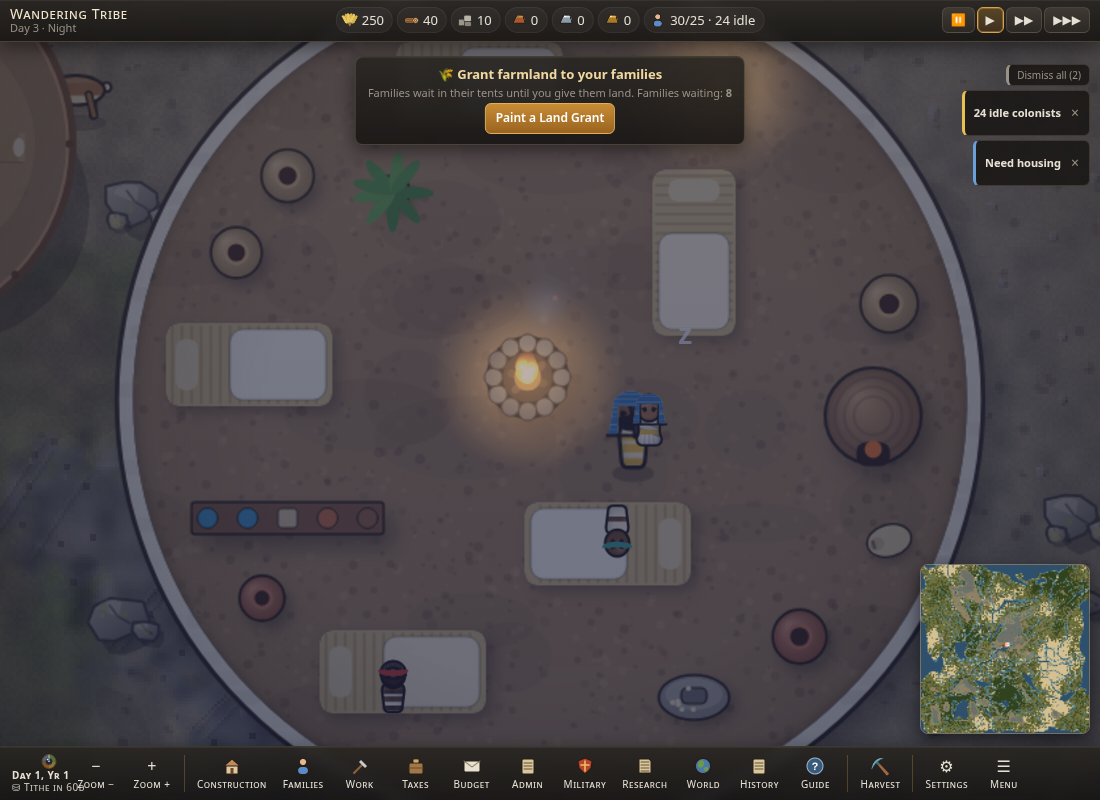
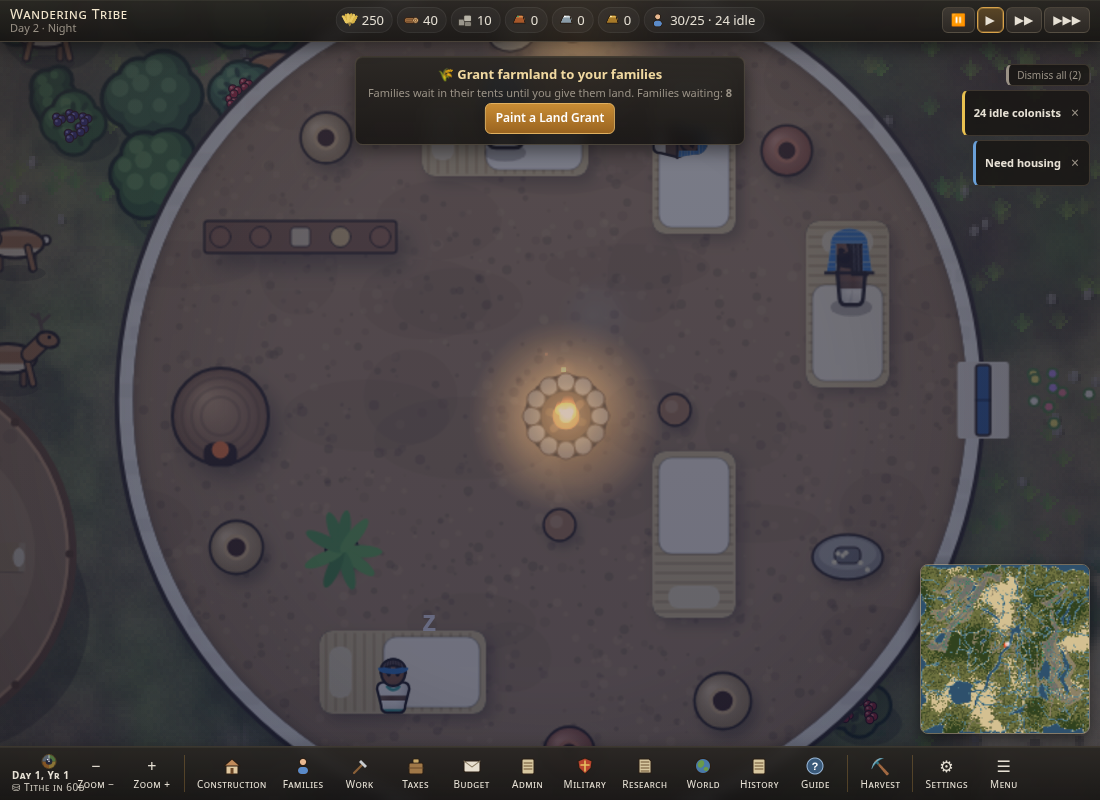
Final pass: two-layer prop bake (canopy over pawns) to z1.3, stead sleeps 14, house hearth stools, granary work courts, tents on interior spots/pathing, door fixes, shrine altar

diff --git a/index.html b/index.html
@@ -1052,7 +1052,7 @@ const SPR={};
 // ---- buildings (hi-res sprites, multi-tile) ----
 const SZFIX={shrine:3};const bsz=t=>SZFIX[t]||(BLD[t]&&BLD[t].sz)||1;
 // realistic proportions: buildings at true scale vs ~0.65-tile people (art drawn at design size then scaled)
-const NSZ={holding:8,stead:7,craft:7,tavern:8,shrine:3,senet:2,plaza:5,trainingcamp:7,spearschool:6,archery:7,slingfield:6,axehall:6,stables:7,gatherhut:6,storehouse:8,bakery:7,brewery:7,tent:4,campfire:2,stockpile:5,garden:4,farm:8,house:9,lodge:6,lumber:6,quarry:6,barracks:10,granary:8,well:2,copper:6,tin:6,smelter:7,temple:12,market:8,palace:12,statue:3};
+const NSZ={holding:8,stead:8,craft:7,tavern:8,shrine:3,senet:2,plaza:5,trainingcamp:7,spearschool:6,archery:7,slingfield:6,axehall:6,stables:7,gatherhut:6,storehouse:8,bakery:7,brewery:7,tent:4,campfire:2,stockpile:5,garden:4,farm:8,house:9,lodge:6,lumber:6,quarry:6,barracks:10,granary:8,well:2,copper:6,tin:6,smelter:7,temple:12,market:8,palace:12,statue:3};
 const BCOSTX={house:1.4,barracks:1.4,granary:1.4,temple:1.4,palace:1.3,market:1.3,smelter:1.3,lodge:1.2,lumber:1.2};
 for(const k in NSZ)if(BLD[k]){BLD[k].osz=BLD[k].sz||1;BLD[k].sz=NSZ[k];if(BCOSTX[k])for(const r in BLD[k].cost)BLD[k].cost[r]=Math.round(BLD[k].cost[r]*BCOSTX[k])}
 // ---- placement, occupancy, A*, roads ----
@@ -1703,13 +1703,13 @@ addEventListener('popstate',()=>{if(placing){pbarSync.h=0;pCancel()}});setInterv
 // ---------- frame ----------
 // perf: chunk mip levels + low-zoom baked prop layers
 function chMip(ch,w){const p=ch.ml||256,L0=w>=(p>128?165:198)?256:w>=(p>64?82:99)?128:64;ch.ml=L0;if(L0===256)return ch.c;const L=L0;ch.m=ch.m||{};if(!ch.m[L]){const src=L===64?(ch.m[128]||ch.c):ch.c;const[c,g]=mk(L,L);g.imageSmoothingEnabled=true;g.imageSmoothingQuality='high';g.drawImage(src,0,0,L,L);ch.m[L]=c}return ch.m[L]}
-const PBZ=.85,PBK={};let PBsrc=null;
-let PBV=0;let PB_ON=0;function propBake(vl,vr,vt,vb,now){if(PBsrc!==props){for(const k in PBK)delete PBK[k];PBsrc=props;PBV++}if(now-(propBake.t||0)>60000){propBake.t=now;PBV++}visProps(-1e9,-1e9,-1e9,-1e9);const W=CS*TS,M=48,sc=cam.z>.6?1:.5;let bud=(lowPrefill.mv&&performance.now()-lowPrefill.mv<350)?1:3;
+const PBZ=1.3,PBK={};let PBsrc=null;
+let PBV=0;let PB_ON=0;function propBake(vl,vr,vt,vb,now){if(PBsrc!==props){for(const k in PBK)delete PBK[k];PBsrc=props;PBV++}if(now-(propBake.t||0)>60000){propBake.t=now;PBV++}visProps(-1e9,-1e9,-1e9,-1e9);const W=CS*TS,M=48,sc=cam.z>.6?1:.5;propBake.up=[];let bud=(lowPrefill.mv&&performance.now()-lowPrefill.mv<350)?1:3;
  for(let cy=Math.max(0,Math.floor(vt/W));cy<=Math.min(MH/CS-1,Math.floor(vb/W));cy++)for(let cx=Math.max(0,Math.floor(vl/W));cx<=Math.min(MW/CS-1,Math.floor(vr/W));cx++){const k=cx+','+cy,a=PCH[k];if(!a||!a.length)continue;let e=PBK[k];
-  if((!e||e.src!==PBV||e.sc!==sc)&&(bud>0||!e)){if(!e&&bud<=0&&Object.keys(PBK).length)continue;bud--;const cw=Math.ceil((W+M*2)*sc);if(!e||e.sc!==sc){const[c,g]=mk(cw,cw);e=PBK[k]={c,g,sc}}e.t=now;e.src=PBV;const g=e.g;g.setTransform(1,0,0,1,0,0);g.clearRect(0,0,cw,cw);g.setTransform(sc,0,0,sc,(M-cx*W)*sc,(M-cy*W)*sc);
-   const ov=vx;vx=g;PB_ON=1;try{a.slice().sort((p,q)=>p.gy-q.gy).forEach(pr=>{const X=pr.gx*TS,Y=pr.gy*TS,vv=(hsh(pr.gx*7|0,pr.gy*7|0)*3)|0,sp=propSpr(pr.k,vv),big=pr.k==='oak'||pr.k==='palm'||pr.k==='olive';rnDrawProp(pr,X,Y,sp,0,big)})}finally{vx=ov;PB_ON=0}}
-  if(e){e.used=now;vx.drawImage(e.c,cx*W-M,cy*W-M,W+M*2,W+M*2)}}
- const ks=Object.keys(PBK);if(ks.length>260){ks.sort((p,q)=>(PBK[p].used||0)-(PBK[q].used||0));ks.slice(0,ks.length-200).forEach(k=>delete PBK[k])}}
+  if((!e||e.src!==PBV||e.sc!==sc)&&(bud>0||!e)){if(!e&&bud<=0&&Object.keys(PBK).length)continue;bud--;const cw=Math.ceil((W+M*2)*sc);if(!e||e.sc!==sc){const[c,g]=mk(cw,cw),[u,ug]=sc<1?[null,null]:mk(cw,cw);e=PBK[k]={c,g,u,ug,sc}}e.t=now;e.src=PBV;e.hu=0;const g=e.g,ug=e.ug;for(const q of ug?[g,ug]:[g]){q.setTransform(1,0,0,1,0,0);q.clearRect(0,0,cw,cw);q.setTransform(sc,0,0,sc,(M-cx*W)*sc,(M-cy*W)*sc)}
+   const ov=vx;vx=g;PB_ON=1;try{a.slice().sort((p,q)=>p.gy-q.gy).forEach(pr=>{const X=pr.gx*TS,Y=pr.gy*TS,vv=(hsh(pr.gx*7|0,pr.gy*7|0)*3)|0,sp=propSpr(pr.k,vv),big=pr.k==='oak'||pr.k==='palm'||pr.k==='olive';if(!big||sc<1){vx=g;rnDrawProp(pr,X,Y,sp,0,big);return}e.hu=1;for(const[q,lo]of[[g,1],[ug,0]]){q.save();q.beginPath();lo?q.rect(X-30,Y+5,60,30):q.rect(X-30,Y-30,60,35);q.clip();vx=q;rnDrawProp(pr,X,Y,sp,0,big);q.restore()}})}finally{vx=ov;PB_ON=0}}
+  if(e){e.used=now;vx.drawImage(e.c,cx*W-M,cy*W-M,W+M*2,W+M*2);if(e.hu)propBake.up.push([e.u,cx*W-M,cy*W-M,W+M*2])}}
+ const ks=Object.keys(PBK),pl=sc<1?300:130;if(ks.length>pl){ks.sort((p,q)=>(PBK[p].used||0)-(PBK[q].used||0));ks.slice(0,ks.length-pl+30).forEach(k=>delete PBK[k])}}
 let PCH={};function visProps(vl,vr,vt,vb){if(visProps.src!==props){PCH={};props.forEach(p=>{const k=((p.gx/CS)|0)+','+((p.gy/CS)|0);(PCH[k]=PCH[k]||[]).push(p)});visProps.src=props}const o=[],W=CS*TS;for(let cy=Math.max(0,Math.floor(vt/W));cy<=Math.min(MH/CS-1,Math.floor(vb/W));cy++)for(let cx=Math.max(0,Math.floor(vl/W));cx<=Math.min(MW/CS-1,Math.floor(vr/W));cx++){const a=PCH[cx+','+cy];if(a)for(const p of a)o.push(p)}return o}
 // ---- interiors: each pawn inside a building owns one use spot (occupancy 1), walks to it over the room grid (walls and furniture block), then uses it ----
 const ISP=new WeakMap();
@@ -1718,7 +1718,7 @@ function intGrid(m){if(m._wg)return m._wg;const R=m.R;if(!R)return null;const n=
 function intCell(G,x,y){const i=Math.max(0,Math.min(G.n-1,x/G.C|0)),j=Math.max(0,Math.min(G.n-1,y/G.C|0));return j*G.n+i}
 function intNear(G,c){if(G.w[c])return c;const n=G.n,q=[c],seen=new Uint8Array(n*n);seen[c]=1;while(q.length){const k=q.shift();if(G.w[k])return k;const x=k%n,y=k/n|0;for(const[a,b]of[[1,0],[-1,0],[0,1],[0,-1]]){const X=x+a,Y=y+b;if(X<0||Y<0||X>=n||Y>=n)continue;const nk=Y*n+X;if(!seen[nk]){seen[nk]=1;q.push(nk)}}}return c}
 function intPath(G,a0,b0){const n=G.n,prev=new Int32Array(n*n).fill(-1);const q=[a0];prev[a0]=a0;while(q.length){const k=q.shift();if(k===b0)break;const x=k%n,y=k/n|0;for(const[a,b]of[[1,0],[-1,0],[0,1],[0,-1],[1,1],[-1,1],[1,-1],[-1,-1]]){const X=x+a,Y=y+b;if(X<0||Y<0||X>=n||Y>=n)continue;const nk=Y*n+X;if(prev[nk]>=0||!G.w[nk])continue;if(a&&b&&(!G.w[y*n+X]||!G.w[Y*n+x]))continue;prev[nk]=k;q.push(nk)}}if(prev[b0]<0)return[b0];const P=[];for(let k=b0;k!==a0;k=prev[k])P.push(k);return P.reverse()}
-function intPos(a,dt){const b=a.inB,sp=bSpr(b);if(!sp||!sp.m||!sp.m.R)return null;const m=sp.m,G=intGrid(m);if(!G)return null;const nt=night(),want=a.state==='home'&&nt?'bed':'seat';
+function intPos(a,dt){const b=a.inB,sp=b.t==='tent'?tentIntSpr(b):bSpr(b);if(!sp||!sp.m||!sp.m.R)return null;const m=sp.m,G=intGrid(m);if(!G)return null;const nt=night(),want=a.state==='home'&&nt?'bed':'seat';
  let occ=ISP.get(b);if(!occ){occ=new Map();ISP.set(b,occ)}const here=ax().inB.get(b)||[];for(const k of occ.keys())if(!here.some(q=>q.key===k))occ.delete(k);
  let o=occ.get(a.key);if(!o||o.k!==want){const taken=new Set([...occ.values()].filter(v=>v!==o).map(v=>v.i));const L=(m.spots||[]).map((q,i)=>({q,i})).filter(z=>z.q.k===want&&!taken.has(z.i));const z=L[0]||(m.spots||[]).map((q,i)=>({q,i})).find(z=>!taken.has(z.i));o=z?{k:want,i:z.i}:{k:want,i:-1};occ.set(a.key,o)}
  let tgt=o.i>=0?m.spots[o.i]:null;if(!tgt){if(!o.free){const fr=[];for(let k=0;k<G.w.length;k++)if(G.w[k])fr.push(k);const used=new Set([...occ.values()].map(v=>v.free).filter(Boolean));let c=fr[(hsh((a.idx||0)*7,(a.key||'').length,31)*fr.length)|0];for(let t=0;t<20&&used.has(c);t++)c=fr[(hsh((a.idx||0)*7,t,32)*fr.length)|0];o.free=c}tgt={x:(o.free%G.n+.5)*G.C,y:((o.free/G.n|0)+.5)*G.C}}if(a._ib!==b||a._ixy==null){a._ib=b;const d=fpDoor(b);const dx=d?(d.x-b.x)*32:G.n*G.C/2,dy=d?(d.y-b.y)*32:G.n*G.C-6;a._ixy=[dx,dy];a._ipath=null;a._it=null}
@@ -1792,7 +1792,7 @@ function vframe(now){const rdt=Math.min(.1,(now-(last||now))/1000),dt=rdt*spd;la
  blist.forEach(o=>{const b=o.b;let v=b.o||'';if(b.t==='farm'&&evOn('drought'))v='dry';const fe=S.ev.act.find(e=>e.id==='fire'&&e.bi===o.i);if(fe)v='burn';const s=o.s,X=o.gx*TS,Y=o.gy*TS;if(X>vr||X+s*TS<vl||Y>vb||Y+s*TS<vt)return;const sp=b.t==='wall'?wallSpr(b.x,b.y):bfp(b)?fpSpr(b,v):bspr(b.t,b.l,v);
   const e={o,sp,p:{x:X,y:Y},fire:!!fe,f:b.cp?()=>siteDraw(b,sp,X,Y,s,now):b.t==='farm'&&v!=='burn'?()=>farmDraw(b,X,Y,s,v,now,z):()=>{vx.drawImage(sp.c,X-8,Y-8,s*TS+16,s*TS+16);if(sp.m.walled||STORES[b.t])bldOver(b,o.i,X,Y,s,z,dt)},k:(o.gy+s)*TS-2};if(sp.m.flat){flats.push(e)}else D.push(e)});
  ecoDrawFields(vl,vr,vt,vb,z);FPB.on=0;flats.forEach(e=>e.f());if(z>=.45&&S.stk)blist.forEach(o=>{const b=o.b;if(S.stk[bid(b)])stkDraw(b,o.gx*TS,o.gy*TS,o.s)});
- if(GFX.q!=='high'&&z<(GFX.q==='low'?1.2:PBZ)){propBake(vl,vr,vt,vb,now)}else visProps(vl,vr,vt,vb).forEach(pr=>{const X=pr.gx*TS,Y=pr.gy*TS;if(!inV(X,Y))return;const vv=(hsh(pr.gx*7|0,pr.gy*7|0)*3)|0,sp=propSpr(pr.k,vv),big=pr.k==='oak'||pr.k==='palm'||pr.k==='olive';const sw=big?Math.sin(wt*1.3+pr.gx)*.6:0;D.push({k:Y+(big?10:2),f:()=>rnDrawProp(pr,X,Y,sp,sw,big)})});
+ if(z<(GFX.q==='high'?.85:GFX.q==='low'?1.6:PBZ)){propBake(vl,vr,vt,vb,now);propBake.on=1}else visProps(vl,vr,vt,vb).forEach(pr=>{const X=pr.gx*TS,Y=pr.gy*TS;if(!inV(X,Y))return;const vv=(hsh(pr.gx*7|0,pr.gy*7|0)*3)|0,sp=propSpr(pr.k,vv),big=pr.k==='oak'||pr.k==='palm'||pr.k==='olive';const sw=big?Math.sin(wt*1.3+pr.gx)*.6:0;D.push({k:Y+(big?10:2),f:()=>rnDrawProp(pr,X,Y,sp,sw,big)})});
  critters.forEach(c=>{c.t-=dt;if(c.t<=0){const rg=c.k==='deer'?2.5:1.4;c.tx=c.hx+(Math.random()-.5)*rg*2;c.ty=c.hy+(Math.random()-.5)*rg;if(!walkC(c.tx|0,c.ty|0)&&c.k!=='deer'){c.tx=c.x;c.ty=c.y}c.t=1+Math.random()*3}
   const dx=c.tx-c.x,dy=c.ty-c.y,d=Math.hypot(dx,dy);if(d>.03){c.x+=dx/d*.4*dt;c.y+=dy/d*.4*dt;c.dir=dx>0?1:-1}if(z<.5||!inV(c.x*TS,c.y*TS))return;D.push({k:c.y*TS,f:()=>critDraw(c,now)})});
  if(!S.rn||!S.herds)rnInit();rnBuild();rnHerdStep(dt);if(z>=.5)rnHerdDraw(D,dt,now,inV);
@@ -1803,7 +1803,7 @@ function vframe(now){const rdt=Math.min(.1,(now-(last||now))/1000),dt=rdt*spd;la
  vis.migr=vis.migr.filter(m=>{if(!m.route.length)return false;const p=m.route[0],dx=p.x-m.x,dy=p.y-m.y,d=Math.hypot(dx,dy),sp=.9*dt;m.dir=dirOf(dx,dy);m.ft+=dt*7;if(d<=sp){m.x=p.x;m.y=p.y;m.route.shift()}else{m.x+=dx/d*sp;m.y+=dy/d*sp}const P=isoP(m.x,m.y);if(z>=.5)D.push({k:P.y,f:()=>drawAgent(m,P,true,now)});return m.route.length>0});
  if(vis.raid&&z>=.5){const c=S.center,R=RAD[S.tier];for(let k=0;k<Math.min(10,vis.raid);k++){const p=isoP(c.x-R-1+(k%2)*.7,c.y-2+k*.6);const a={o:OUTFIT.raider,dir:0,ft:now/140+k,role:'soldier',idx:k};D.push({k:p.y,f:()=>drawAgent(a,p,true,now)})}}
  if(vis.caravan&&z>=.5){const h=hubT();for(let k=0;k<3;k++){const c={k:'goat',x:h.x+1+k*.8,y:h.y+.4,dir:1};D.push({k:c.y*TS,f:()=>{critDraw(c,now);rr(vx,c.x*TS-5,c.y*TS-6,10,5,1,k%2?PB.red[3]:PB.glaze[3],OUTL,.6)}})}const mp=isoP(h.x+.4,h.y-.4);D.push({k:mp.y,f:()=>drawAgent({o:OUTFIT.merchant,dir:1,ft:0,idx:0},mp,false,now)})}
- ecoVis(D,dt,z,inV,now);if(BV)bvPush(D,now,inV);D.sort((a,b)=>a.k-b.k);for(const d of D)d.f();if(BV)bvOver(now,inV);
+ ecoVis(D,dt,z,inV,now);if(BV)bvPush(D,now,inV);D.sort((a,b)=>a.k-b.k);for(const d of D)d.f();if(propBake.up&&propBake.on){for(const[c,x,y,w]of propBake.up)vx.drawImage(c,x,y,w,w)}propBake.on=0;if(BV)bvOver(now,inV);
  if(S.beau&&BEAU){const gx0=Math.max(0,vl/TS|0),gx1=Math.min(MW-1,vr/TS|0),gy0=Math.max(0,vt/TS|0),gy1=Math.min(MH-1,vb/TS|0);for(let gy=gy0;gy<=gy1;gy++)for(let gx=gx0;gx<=gx1;gx++){const v=BEAU[gy*MW+gx];if(Math.abs(v)<.4)continue;const L=Math.max(-1,Math.min(1,v/12));vx.fillStyle=L>0?'hsla('+(70+L*80|0)+',85%,'+(55-L*10)+'%,'+(.12+L*.33)+')':'hsla(10,85%,45%,'+(.18-L*.35)+')';vx.fillRect(gx*TS,gy*TS,TS,TS)}}
  if(S.heat){const gx0=Math.max(0,vl/TS|0),gx1=Math.min(MW-1,vr/TS|0),gy0=Math.max(0,vt/TS|0),gy1=Math.min(MH-1,vb/TS|0);for(let gy=gy0;gy<=gy1;gy++)for(let gx=gx0;gx<=gx1;gx++){const i=gy*MW+gx;if(!roadSet[i])continue;const L=Math.min(1,LOAD[i]/1.4);vx.fillStyle='hsla('+((1-L)*120|0)+',85%,50%,.5)';vx.fillRect(gx*TS+1,gy*TS+1,TS-2,TS-2)}}
  fbOver(vl,vr,vt,vb,now,z);
@@ -2884,8 +2884,8 @@ const FP={
   {n:'U-house around a court',p:[['r',.03,.03,.94,.36],['r',.03,.03,.3,.94],['r',.67,.03,.3,.94],['r',.33,.39,.34,.58,'court']],door:[.5,.97],k:'house'},
   {n:'Family compound',p:[['r',.03,.1,.5,.44],['r',.47,.03,.5,.4],['r',.08,.5,.4,.47],['r',.47,.43,.48,.52,'court']],door:[.72,.95],k:'house'},
   {n:'Round house',p:[['c',.5,.5,.47]],door:[.5,.97],k:'house'},{n:'Square house',legacy:1}],
- granary:[{n:'Beehive silos',p:[['c',.27,.27,.25,'dome'],['c',.73,.27,.25,'dome'],['c',.27,.73,.25,'dome'],['c',.73,.73,.25,'dome']],door:[.5,.99],k:'silo'},
-  {n:'Great dome',p:[['c',.5,.5,.47,'dome']],door:[.5,.97],k:'silo'},{n:'Silo row and yard',p:[['c',.18,.24,.17,'dome'],['c',.5,.24,.17,'dome'],['c',.82,.24,.17,'dome'],['r',.04,.44,.92,.53,'court']],door:[.5,.97],k:'silo'}],
+ granary:[{n:'Beehive silos and tally court',p:[['c',.24,.24,.21,'dome'],['c',.7,.24,.21,'dome'],['c',.24,.7,.21,'dome'],['r',.47,.5,.5,.47,'court']],door:[.72,.97],k:'silo'},
+  {n:'Great dome and porch',p:[['c',.5,.4,.37,'dome'],['r',.14,.74,.72,.23,'court']],door:[.5,.97],k:'silo'},{n:'Silo row and yard',p:[['c',.18,.24,.17,'dome'],['c',.5,.24,.17,'dome'],['c',.82,.24,.17,'dome'],['r',.04,.44,.92,.53,'court']],door:[.5,.97],k:'silo'}],
  farm:[{n:'Wheat field',legacy:1}],
  gatherhut:[{n:'L-shaped gatherers\' shed',p:[['r',.04,.04,.62,.48],['r',.04,.04,.36,.92],['r',.4,.52,.56,.44,'court']],door:[.55,.52],k:'gather'},{n:'Round hut with drying yard',p:[['c',.36,.36,.32],['r',.5,.5,.46,.46,'court']],door:[.6,.6],k:'gather'},{n:'Long shed and side yard',p:[['r',.04,.06,.92,.4],['r',.04,.46,.5,.5,'court']],door:[.3,.46],k:'gather'}],
  bakery:[{n:'Bakehouse with dome oven',p:[['r',.04,.18,.6,.56],['c',.79,.46,.19,'dome'],['r',.04,.74,.62,.22,'court']],door:[.34,.74],k:'bakehouse'},{n:'Twin-oven bakehouse',p:[['r',.2,.04,.6,.5],['c',.17,.75,.15,'dome'],['c',.83,.75,.15,'dome'],['r',.36,.56,.28,.4,'court']],door:[.5,.54],k:'bakehouse'},{n:'L bakehouse',p:[['r',.04,.04,.92,.4],['r',.04,.04,.4,.92],['c',.73,.72,.2,'dome']],door:[.44,.7],k:'bakehouse'}],
@@ -2903,7 +2903,7 @@ const FP={
  copper:[{n:'Miners\' hut and ore yard',p:[['r',.04,.04,.42,.34],['e',.6,.6,.36,.36,'court']],door:[.3,.38],k:'minehut'},{n:'Long miners\' hut',p:[['r',.04,.04,.92,.28],['e',.5,.68,.42,.28,'court']],door:[.5,.32],k:'minehut'}],
  tin:[{n:'Round miners\' hut and ore yard',p:[['c',.27,.27,.23],['e',.62,.64,.34,.32,'court']],door:[.4,.45],k:'minehut2'},{n:'Miners\' hut and side yard',p:[['r',.04,.04,.4,.5],['e',.68,.6,.28,.36,'court']],door:[.44,.4],k:'minehut2'}],
  holding:[{n:'Treasury compound round a court',p:[['r',.03,.03,.94,.3],['r',.03,.33,.3,.64],['c',.8,.78,.17,'dome'],['r',.33,.33,.64,.64,'court']],door:[.6,.33],k:'holding'},{n:'L treasury and store domes',p:[['r',.03,.03,.94,.36],['r',.03,.03,.36,.94],['c',.62,.66,.14,'dome'],['c',.86,.86,.11,'dome'],['r',.39,.39,.58,.2,'court']],door:[.6,.39],k:'holding'}],
- stead:[{n:'Farmstead with sleeping hut, byre and grain dome',p:[['r',.03,.03,.62,.5],['c',.83,.2,.15,'dome'],['c',.82,.62,.16],['r',.03,.53,.3,.44],['r',.33,.53,.4,.44,'court']],door:[.5,.53],k:'stead'},{n:'Long farmhouse, byre and sleeping hut',p:[['r',.03,.03,.94,.4],['r',.03,.43,.3,.3],['r',.64,.45,.33,.52],['c',.18,.86,.11,'dome'],['r',.33,.43,.31,.54,'court']],door:[.5,.43],k:'stead'}],
+ stead:[{n:'Farmstead with sleeping hut, byre and grain dome',p:[['r',.03,.03,.62,.5],['c',.83,.2,.15,'dome'],['c',.82,.62,.16],['r',.03,.53,.44,.44],['r',.47,.53,.26,.44,'court']],door:[.6,.53],k:'stead'},{n:'Long farmhouse, byre and sleeping hut',p:[['r',.03,.03,.94,.4],['r',.03,.43,.3,.3],['r',.64,.45,.33,.52],['c',.18,.86,.11,'dome'],['r',.33,.43,.31,.54,'court']],door:[.5,.43],k:'stead'}],
  craft:[{n:'Town house with workshop',p:[['r',.04,.04,.55,.45],['r',.59,.04,.37,.62],['r',.04,.49,.55,.47,'court']],door:[.3,.49],k:'workshop'},{n:'Workshop across the yard',p:[['r',.04,.04,.92,.38],['r',.04,.62,.5,.34],['r',.04,.42,.92,.2,'court']],door:[.5,.42],k:'workshop'}],
  statue:[{n:'Round plinth',p:[['c',.5,.5,.42]],k:'plinth'},{n:'Square plinth',p:[['r',.15,.15,.7,.7]],k:'plinth'}],
  barracks:[{n:'Long barracks',p:[['r',.02,.3,.96,.4]],door:[.5,.7],k:'barracks'},{n:'Barracks block',p:[['r',.28,.02,.44,.96]],door:[.72,.5],k:'barracks'},
@@ -2954,7 +2954,7 @@ function fpSpr(b,v){const f=bfp(b),t=b.t,l=Math.min(b.l||1,5);const key='F'+t+l+
  if(V.door){const d0=fpT(V.door[0],V.door[1],f);let best=null,bd=1e9;const inside=(x,y,ex)=>solid.some(o=>o!==ex&&(o.k==='r'?x>o.x+.01&&x<o.x+o.w-.01&&y>o.y+.01&&y<o.y+o.h-.01:((x-o.x)/o.rx)**2+((y-o.y)/o.ry)**2<.97));
   for(const o of solid){if(o.tag==='dome')continue;let cands=[];if(o.k==='r'){const cx=Math.max(o.x+.06,Math.min(o.x+o.w-.06,d0[0])),cy=Math.max(o.y+.06,Math.min(o.y+o.h-.06,d0[1]));cands=[[cx,o.y,1],[cx,o.y+o.h,1],[o.x,cy,0],[o.x+o.w,cy,0]]}else{const a=Math.atan2(d0[1]-o.y,d0[0]-o.x);cands=[[o.x+Math.cos(a)*o.rx,o.y+Math.sin(a)*o.ry,Math.abs(Math.sin(a))>.7?1:0]]}
    for(const[cx,cy,h]of cands){const nx=cx+(h?0:(cx>o.x+(o.w||0)/2?.02:-.02)),ny=cy+(h?(cy>o.y+(o.h||0)/2?.02:-.02):0);if(inside(nx,ny,o))continue;const dd=(cx-d0[0])**2+(cy-d0[1])**2;if(dd<bd){bd=dd;best=[cx,cy,h]}}}
-  const d=best?[best[0],best[1]]:d0,dx=d[0]*W,dy=d[1]*W;const hor=best?!!best[2]:Math.abs(d[1]-.5)>Math.abs(d[0]-.5);g.save();g.translate(dx,dy);if(!hor)g.rotate(Math.PI/2);rr(g,-12,-th*.8,24,th*1.6,1,lighten(wc[0],.15));rr(g,-11,-2.2,22,4.4,1,A.wall.door||'#6a4626',OUTL,.8);ln(g,0,-2.2,0,2.2,'rgba(0,0,0,.4)',.8);g.restore()}
+  const d=best?[best[0],best[1]]:d0,dx=d[0]*W,dy=d[1]*W;const hor=best?!!best[2]:Math.abs(d[1]-.5)>Math.abs(d[0]-.5);if(best){const ds=Math.max(.5,Math.min(1,W/220));g.save();g.translate(dx,dy);if(!hor)g.rotate(Math.PI/2);g.scale(ds,1);rr(g,-12,-th*.8,24,th*1.6,1,lighten(wc[0],.15));rr(g,-11,-2.2,22,4.4,1,A.wall.door||'#6a4626',OUTL,.8);ln(g,0,-2.2,0,2.2,'rgba(0,0,0,.4)',.8);g.restore()}}
  // interior furnishing (v3: concept-sheet props, greedy wall-aware placement)
  const kd=V.k;{if(!['lumber','fold','field'].includes(kd)){const inner=new Path2D(),domeP=new Path2D(),outer=new Path2D(),cp=new Path2D();solid.filter(p=>p.tag!=='dome').forEach(p=>inner.addPath(ipath(p,th+3)));P.filter(p=>p.tag==='dome').forEach(p=>domeP.addPath(path(p,0)));solid.forEach(p=>outer.addPath(path(p,0)));open.forEach(p=>cp.addPath(path(p,5)));
   const RS=4,rn=Math.ceil(W/RS),[rc,rg]=mk(rn,rn);rg.scale(1/RS,1/RS);rg.fillStyle='#00ff00';rg.fill(cp);rg.globalCompositeOperation='destination-out';rg.fill(outer);rg.globalCompositeOperation='source-over';rg.fillStyle='#ff0000';rg.fill(inner);rg.globalCompositeOperation='destination-out';rg.fill(domeP);
@@ -3123,15 +3123,15 @@ function X_furnish(g,kd,W,test,door,m,l,seed,extra){const id=civId(),PL=X_PAL[id
  if(kd==='house'||kd==='tent'){X_RICH=rich;
   if(kd==='tent'){hearthC(1,10);for(let i=0;i<3*Math.max(1,l);i++)P(1,26,52,'wall',b=>bedF(b,X_pick(PL.lin),0));sacks(1,2);jars(1,2);P(1,36,24,'any',b=>X_rug(g,b.x,b.y,b.w,b.h,'#8a6038','#c8a868','#5a3a1c'));return}
   if(rich&&A1>14)P(1,96,64,'center',b=>X_rug(g,b.x,b.y,b.w,b.h,PL.rug[0],PL.rug[1],PL.rug[2]),{gap:-40,rot:false,jit:2});
-  if(id==='myc'&&A1>16){const b=hearthC(1,20);if(b){for(const[a,c]of[[-1,-1],[1,-1],[-1,1],[1,1]])X_column(g,b.cx+a*34,b.cy+c*34,7,'#8a5a32');X_mark(R,b.cx-44,b.cy-44,88,88,0)}}
-  else if(id!=='egypt'||!A2)hearthC(1,13);
+  let HB=null;if(id==='myc'&&A1>16){const b=HB=hearthC(1,20);if(b){for(const[a,c]of[[-1,-1],[1,-1],[-1,1],[1,1]])X_column(g,b.cx+a*34,b.cy+c*34,7,'#8a5a32');X_mark(R,b.cx-44,b.cy-44,88,88,0)}}
+  else if(id!=='egypt'||!A2)HB=hearthC(1,13);{const sc2=HB?1:A2?2:1;for(let i=0;i<Math.min(4,Math.max(2,l+1));i++)P(sc2,14,14,HB?'near':'wall',b=>X_stool(g,b.cx,b.cy),HB?{p:[HB.cx,HB.cy],gap:3}:{gap:3})}
   const res=5*Math.max(1,l),nb=Math.min(res,Math.max(2,Math.floor(A1/3.2)));for(let i=0;i<nb;i++)P(1,rich?30:26,rich?60:52,i<Math.ceil(nb/2)?'wall':'any',b=>{bedF(b,PL.lin[i%PL.lin.length],rich);if(rich)P(1,36,22,'near',q=>X_chest(g,q.x,q.y,q.w,q.h,1),{p:[b.cx,b.cy],gap:3})});
   if(l>=2)P(1,70,26,'wall',b=>X_loom(g,b.cx,b.cy,b.sw?b.h:b.w,b.sw?Math.PI/2:0));
   if(!A2){P(1,34,34,'wall',b=>X_oven(g,b.cx,b.cy,15));P(1,26,18,'wall',b=>X_quern(g,b.cx,b.cy))}jars(1,2);
   if(l>=2)P(1,44,30,'center',b=>{X_table(g,b.x+2,b.y+4,b.w-4,b.h-8);X_stool(g,b.x-4,b.cy);X_stool(g,b.x+b.w+4,b.cy)},{gap:10});
   P(1,60,12,'wall',b=>b.sw?(g.save(),g.translate(b.cx,b.cy),g.rotate(Math.PI/2),X_shelf(g,-30,-5,60,5),g.restore()):X_shelf(g,b.x,b.y,60,5),{gap:2});
   jars(1,2+l);sacks(1,1+(l>>1));lamps(1,1+(rich?1:0));if(rich)P(1,36,22,'wall',b=>X_chest(g,b.x,b.y,b.w,b.h,1));P(1,30,30,'wall',b=>X_extra(g,id,b.cx,b.cy,m));court();X_RICH=0;return}
- if(kd==='silo'){if(A2){P(2,60,40,'far',b=>{X_mat(g,b.x,b.y,b.w,b.h);X_tablets(g,b.x+6,b.y+6,6);X_stool(g,b.cx,b.y+b.h+6)},{rot:false});P(2,60,40,'center',b=>{X_ell(g,b.cx,b.cy,26,16,'#d8bc70');for(let i=0;i<30;i++)X_circ(g,b.cx+X_R(-22,22),b.cy+X_R(-12,12),.8,'#a08040')},{rot:false});
+ if(kd==='silo'){for(let i=0;i<2;i++)P(A2?2:1,14,14,A2?'wall':'any',b=>X_stool(g,b.cx,b.cy),{gap:4});if(A2){P(2,60,40,'far',b=>{X_mat(g,b.x,b.y,b.w,b.h);X_tablets(g,b.x+6,b.y+6,6);X_stool(g,b.cx,b.y+b.h+6)},{rot:false});P(2,60,40,'center',b=>{X_ell(g,b.cx,b.cy,26,16,'#d8bc70');for(let i=0;i<30;i++)X_circ(g,b.cx+X_R(-22,22),b.cy+X_R(-12,12),.8,'#a08040')},{rot:false});
    P(2,60,24,'any',b=>X_donkey(g,b.cx,b.cy,1),{rot:false});jars(2,6);sacks(2,10);trough(2)}return}
  if(kd==='barracks'){X_RICH=0;const n=8;for(let i=0;i<n;i++)P(1,22,42,i<5?'wall':'any',b=>{X_pallet(g,b.cx,b.cy,X_pick(['#8e3a2a','#6a5a3a','#5a6a4a']),b.rot);P(1,24,14,'near',q=>X_chest(g,q.x,q.y,q.w,q.h),{p:[b.cx,b.cy],gap:2})},{gap:4});
   for(let i=0;i<2;i++)P(1,50,14,'wall',b=>X_weaponrack(g,b.cx,b.cy,50,b.sw?Math.PI/2:0));P(1,110,26,'center',b=>{X_table(g,b.x,b.y,b.w,b.h,'#8a5e34');for(let i=0;i<4;i++)X_circ(g,b.x+16+i*24,b.cy,4,'#e8c86a');const v=b.sw;for(let i=0;i<5;i++)v?X_stool(g,b.x-7,b.y+10+i*20):X_stool(g,b.x+10+i*20,b.y+b.h+7)},{gap:12});
@@ -3173,14 +3173,14 @@ function X_furnish(g,kd,W,test,door,m,l,seed,extra){const id=civId(),PL=X_PAL[id
  if(kd==='brew'){pith(1,5);bench(1,44,2);sacks(1,3);jars(1,3);if(A2){hearthC(2,11);P(2,30,30,'wall',b=>X_oven(g,b.cx,b.cy,13));jars(2,3)}return}
  if(kd==='store'){shelfW(1,3,6);pith(1,4);sacks(1,8);jars(1,6);P(1,40,24,'far',b=>{X_desk(g,b.cx,b.cy,m);X_tablets(g,b.cx+12,b.cy-8,3)},{gap:6});return}
  if(kd==='tavern'){hearthC(1,12);for(let i=0;i<2;i++)bench(1,44,4);shelfW(1,1,6);pith(1,2);jars(1,3);if(A2){bench(2,40,4);P(2,22,22,'wall',b=>X_plant(g,b.cx,b.cy,9))}return}
- if(kd==='shrine'){if(!P(1,30,20,'center',b=>X_altar(g,b.x,b.y,b.w,b.h,m),{gap:8,rot:false}))P(1,18,12,'center',b=>X_altar(g,b.x,b.y,b.w,b.h,m),{gap:2,rot:false});lamps(1,2);P(1,14,14,'wall',b=>X_offering(g,b.cx,b.cy));if(A2){P(2,18,18,'center',b=>X_brazier(g,b.cx,b.cy,m),{gap:6})}return}
+ if(kd==='shrine'){if(!P(1,30,20,'center',b=>X_altar(g,b.x,b.y,b.w,b.h,m),{gap:8,rot:false})&&!P(1,18,12,'center',b=>X_altar(g,b.x,b.y,b.w,b.h,m),{gap:2,rot:false})){let sx=0,sy=0,c=0;for(let k=0;k<R.cls.length;k++)if(R.cls[k]===1){sx+=k%R.n;sy+=k/R.n|0;c++}if(c){const x=(sx/c+.5)*R.C,y=(sy/c)*R.C;X_altar(g,x-10,y-10,20,13,m);X_mark(R,x-14,y-14,28,20,1)}}lamps(1,2);P(1,14,14,'wall',b=>X_offering(g,b.cx,b.cy));if(A2){P(2,18,18,'center',b=>X_brazier(g,b.cx,b.cy,m),{gap:6})}return}
  if(kd==='drill'||kd==='spear'||kd==='axe'){rackW(1,kd==='spear'?3:2);for(let i=0;i<3;i++)P(1,16,16,'wall',b=>X_shield(g,b.cx,b.cy,'#8a4a2a'),{gap:2});P(1,40,22,'wall',b=>X_chest(g,b.x,b.y,b.w,b.h,0),{gap:4});if(kd==='axe')P(1,26,22,'center',b=>X_anvil(g,b.cx,b.cy));if(A2){for(let i=0;i<3;i++)P(2,12,12,'center',b=>{X_circ(g,b.cx,b.cy,4,'#6a4a2a',X_OL,.8);X_ln(g,b.cx,b.cy-10,b.cx,b.cy,'#7a5232',2)},{gap:26})}return}
  if(kd==='archery'){rackW(1,2);sacks(1,2);jars(1,2);P(1,40,22,'wall',b=>X_chest(g,b.x,b.y,b.w,b.h,0));if(A2)target(2,3);return}
  if(kd==='sling'){pile(1,2,'#a8a294');rackW(1,1);if(A2){target(2,3);pile(2,2,'#a8a294');for(let i=0;i<2;i++)P(2,14,14,'any',b=>{X_mat(g,b.x,b.y,b.w,b.h);X_stool(g,b.cx,b.cy)},{gap:6})}return}
  if(kd==='stable2'){for(let i=0;i<2;i++)trough(1);for(let i=0;i<3;i++)P(1,56,30,'wall',b=>X_horse(g,b.cx,b.cy,i%2?1:-1,['#6a4226','#3a2a1a','#a87a4a'][i]),{gap:4,rot:false});sacks(1,3);rackW(1,1);if(A2){P(2,56,30,'any',b=>X_horse(g,b.cx,b.cy,1,'#8a5a32'),{rot:false});trough(2)}return}
  if(kd==='quarryhut'||kd==='minehut'||kd==='minehut2'){rackW(1,1);if(!bench(1,30,2)&&A2)bench(2,30,2);sacks(1,2);if(kd!=='quarryhut')P(1,30,16,'wall',b=>X_ingots(g,b.cx,b.cy,4));if(A2){const col=kd==='quarryhut'?'#c8c0b0':kd==='minehut'?'#5a8a6a':'#8a9aa8';pile(2,4,col)}return}
  if(kd==='holding'){P(1,40,24,'far',b=>{X_desk(g,b.cx,b.cy,m);X_tablets(g,b.cx+12,b.cy-8,4);X_stool(g,b.cx,b.cy+16)},{gap:8});for(let i=0;i<4;i++)P(1,40,22,'wall',b=>X_chest(g,b.x,b.y,b.w,b.h,1),{gap:3});pith(1,6);sacks(1,6);shelfW(1,2,6);lamps(1,2);if(A2){trough(2);P(2,60,24,'any',b=>X_donkey(g,b.cx,b.cy,1),{rot:false});sacks(2,4)}return}
- if(kd==='stead'){hearthC(1,12);for(let i=0;i<2;i++)P(1,26,52,'wall',b=>X_bed(g,b.cx,b.cy,X_pick(PL.lin),b.rot,0));for(let i=0;i<8;i++)P(1,18,30,i<4?'wall':'any',b=>X_pallet(g,b.cx,b.cy,X_pick(PL.lin),b.rot));P(1,26,18,'wall',b=>X_quern(g,b.cx,b.cy));jars(1,3);court();return}
+ if(kd==='stead'){hearthC(1,12);for(let i=0;i<2;i++)P(1,26,52,'wall',b=>X_bed(g,b.cx,b.cy,X_pick(PL.lin),b.rot,0));for(let i=0;i<12;i++)P(1,18,30,i<6?'wall':'any',b=>X_pallet(g,b.cx,b.cy,X_pick(PL.lin),b.rot));P(1,26,18,'wall',b=>X_quern(g,b.cx,b.cy));jars(1,3);court();return}
  if(kd==='workshop'){hearthC(1,10);for(let i=0;i<5;i++)P(1,20,34,'wall',b=>X_pallet(g,b.cx,b.cy,X_pick(PL.lin),b.rot));bench(1,44,2);shelfW(1,2,5);P(1,26,22,'wall',b=>X_anvil(g,b.cx,b.cy));jars(1,3);court();return}
  if(kd==='plinth'){P(1,30,30,'center',b=>X_statue(g,b.cx,b.cy,'#c8903a'),{gap:0,rot:false});return}
  if(kd==='lodge'){hearthC(1,11);P(1,50,26,'any',b=>{X_table(g,b.x+3,b.y+3,b.w-6,b.h-6,'#8a5a32');X_stool(g,b.x-3,b.cy);X_stool(g,b.x+b.w+3,b.cy)},{gap:8});for(let i=0;i<2;i++)P(1,40,28,'wall',b=>{X_rug(g,b.x,b.y,b.w,b.h,'#8a6038','#c8a868','#5a3a1c')});P(1,50,14,'wall',b=>X_weaponrack(g,b.cx,b.cy,50,b.sw?Math.PI/2:0));sacks(1,2);jars(1,2);return}
@@ -3757,14 +3757,12 @@ function tentIntSpr(b){const F=tentFurn(b),k=b.x+','+b.y+'|'+F.key;if(TINT[k])re
   else if(t==='net'){g.strokeStyle='rgba(220,210,180,.8)';g.lineWidth=.5;for(let k=-3;k<=3;k+=1.5){L(k,-3,k,3,'rgba(220,210,180,.8)',.5);L(-3,k,3,k,'rgba(220,210,180,.8)',.5)}}else if(t==='hammer'){L(0,-5,0,6,'#8a6038',1.4);g.fillStyle='#7a7a72';g.fillRect(-2.5,-6.5,5,2.6)}else if(t==='spear'){L(0,-8,0,8,'#8a6038',1.1);g.fillStyle='#c8a050';g.beginPath();g.moveTo(0,-11);g.lineTo(1.5,-7.5);g.lineTo(-1.5,-7.5);g.fill()}else{L(0,-6,0,6,'#8a6038',1.2)}g.restore()});
  g.restore();g.strokeStyle='#6a4626';g.lineWidth=2.4;g.beginPath();g.arc(cx,cy,r,.0,6.29);g.stroke();g.strokeStyle='#c89a6a';g.lineWidth=1;g.beginPath();g.arc(cx,cy,r-1.6,0,6.29);g.stroke();
  for(let i=0;i<8;i++){const a=i/8*6.28;g.fillStyle='#5a3a1a';g.beginPath();g.arc(cx+Math.cos(a)*(r-1),cy+Math.sin(a)*(r-1),1.3,0,6.3);g.fill()}
- g.fillStyle='#9a7a54';g.fillRect(cx-4,cy+r-3,8,5);return TINT[k]=c}
+ g.fillStyle='#9a7a54';g.fillRect(cx-4,cy+r-3,8,5);{const C=4,n=Math.ceil(s*TS/C),w=new Uint8Array(n*n),sp=[];for(let j=0;j<n;j++)for(let i=0;i<n;i++){const x=(i+.5)*C,y=(j+.5)*C;w[j*n+i]=Math.hypot(x-cx,y-cy)<r*.86&&Math.hypot(x-hx,y-hy)>7?1:0}
+  for(let j=0;j<n;j++)for(let i=0;i<n;i++){const x=(i+.5)*C,y=(j+.5)*C;if(Math.hypot(x-cx,y-cy)>=r*.86&&Math.hypot(x-cx,y-(cy+r-3))<7)w[j*n+i]=1}
+  pos.forEach(([x,y,a])=>sp.push({k:'bed',x,y,r:a}));for(let i=0;i<F.beds;i++){const a=i/F.beds*6.28+.9;sp.push({k:'seat',x:hx+Math.cos(a)*11,y:hy+Math.sin(a)*9})}c.m={R:1,spots:sp,_wg:{n,C,w}}}return TINT[k]=c}
 // cut-away when zoomed in close or when the tent is selected
 function tentCut(vl,vr,vt,vb,now,z){const selB=sel&&sel.i!=null?S.bl[sel.i]:null;for(const b of S.bl){if(b.t!=='tent')continue;if(!(z>=2.2||b===selB))continue;const s=bsz('tent'),X=b.x*TS,Y=b.y*TS,W=s*TS;if(X>vr||X+W<vl||Y>vb||Y+W<vt)continue;
- vx.drawImage(tentIntSpr(b),X,Y,W,W);const ins=(ax().inB.get(b)||[]).slice().sort((p,q)=>p.key<q.key?-1:1);const F=tentFurn(b),nb=Math.max(1,F.beds||4),nt=night();ins.forEach((a,i)=>{
-  // each resident owns a fixed spot (bedroll at night, a seat by the hearth by day) and walks there smoothly — no re-shuffling by list order
-  const slot=(hsh(a.idx||0,(a.key||'').length,77)*nb|0+i)%Math.max(nb,ins.length),ang=slot/Math.max(nb,ins.length)*6.28+.4,rad=nt?.3:.17,tx=X+W/2+Math.cos(ang)*W*rad,ty=Y+W/2+Math.sin(ang)*W*rad*.85;
-  if(a._tb!==b||a._tx==null){a._tb=b;a._tx=tx;a._ty=ty}else{a._tx+=(tx-a._tx)*.06;a._ty+=(ty-a._ty)*.06}const sp=pawnSpr(a.o,1,2);
-  if(nt&&Math.hypot(tx-a._tx,ty-a._ty)<1){vx.save();vx.translate(a._tx,a._ty);vx.rotate(1.5708);vx.drawImage(sp,-11,-8,16,22);vx.restore()}else vx.drawImage(sp,a._tx-8,a._ty-20,16,22)})}}
+ vx.drawImage(tentIntSpr(b),X,Y,W,W);const ins=(ax().inB.get(b)||[]).slice().sort((p,q)=>p.key<q.key?-1:1);ins.forEach(a=>{if(a.route.length)return;const ip=intPos(a,1/60);if(!ip)return;intDraw(a,ip.p,ip,now)})}}
 {const _fo=fbOver;fbOver=function(vl,vr,vt,vb,now,z){tentCut(vl,vr,vt,vb,now,z);_fo(vl,vr,vt,vb,now,z)}}
 {const _si2=showInsp;showInsp=function(){_si2();if(!sel||sel.i==null||!S)return;const b=S.bl[sel.i];if(!b||b.t!=='tent')return;const P=$('insp');if(P.style.display==='none')return;const F=tentFurn(b),o=tentOcc(b);const d=document.createElement('div');d.className='small';d.style.marginTop='3px';
  d.innerHTML='<b>Inside:</b> '+F.beds+' bedroll'+(F.beds>1?'s':'')+' ('+F.layout+' layout), '+(F.hearth==='center'?'central':'side')+' hearth, '+F.jars+' storage jar'+(F.jars>1?'s':'')+(F.rug?', woven rug':'')+(F.tools.length?', '+F.tools.join(', '):'')+'<br>Household: '+(o.length?o.map(a=>(LINES[a.role]||[a.role])[0]).join(', '):'nobody yet');P.insertBefore(d,P.children[2]||null)}}
